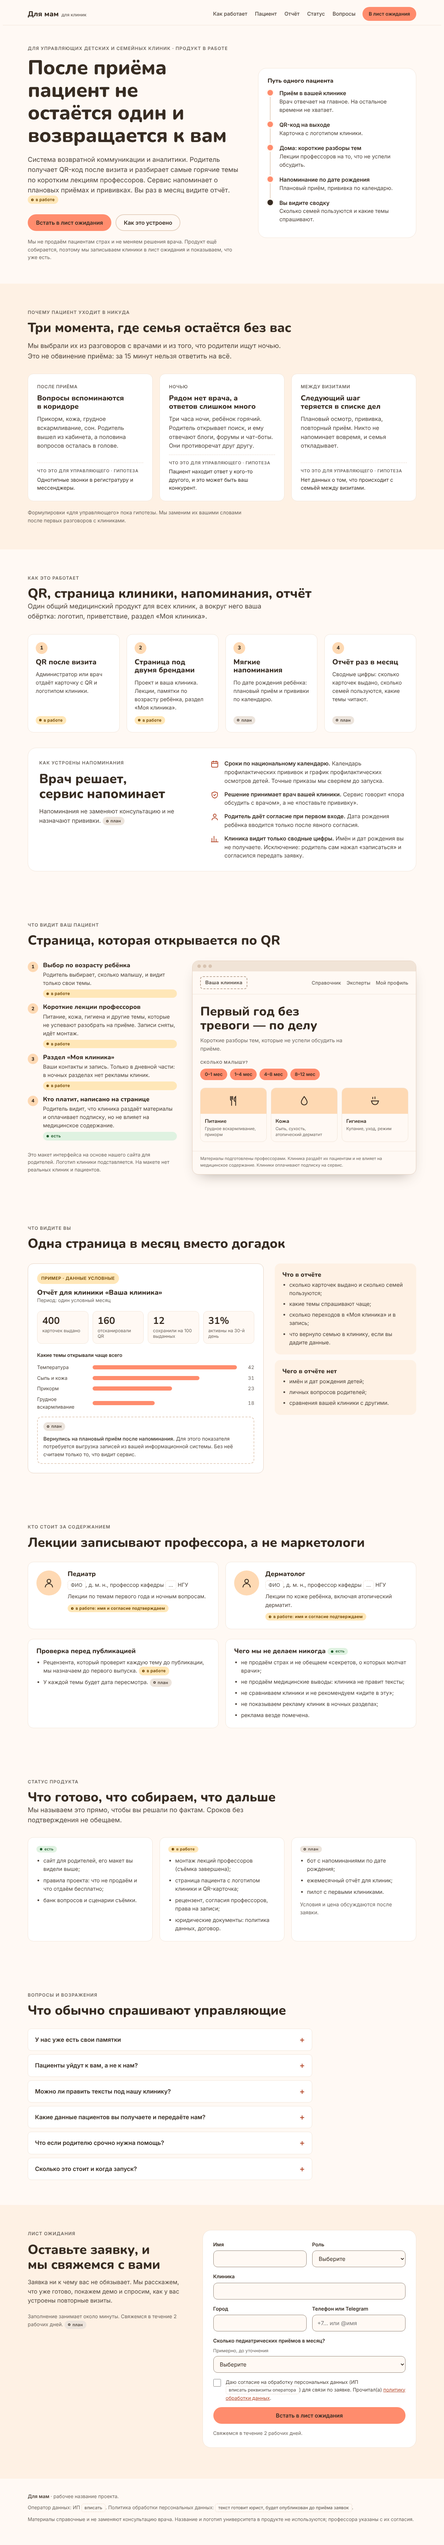
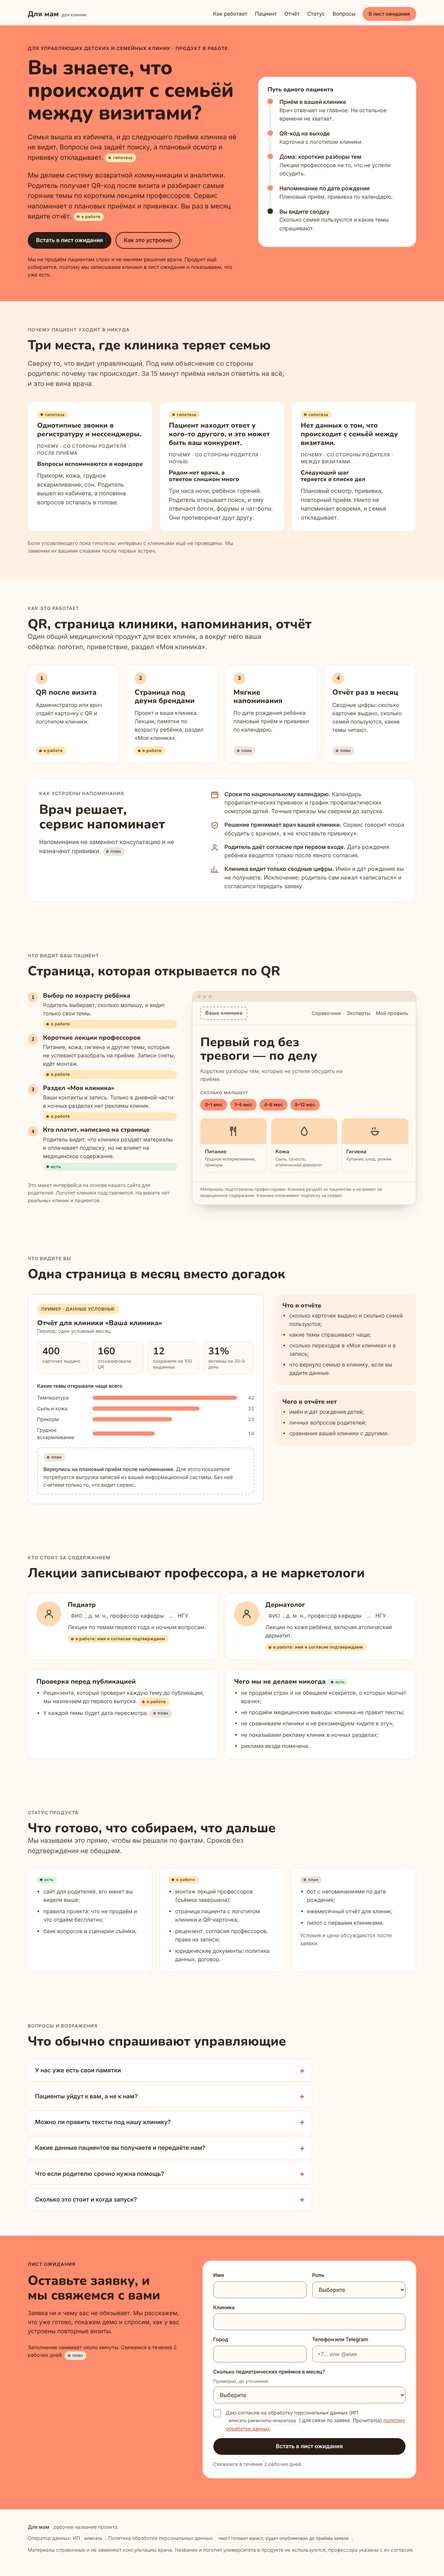
26: рассылка ЛПР (хуки A/B), сегменты с UTM, пороги до отправки; лендинг: хук управляющего, коралловые полосы
Claude-Session: https://claude.ai/code/session_015gc3isNusoQwgfyB4FSh31

diff --git a/dlya-mam/landing/index.html b/dlya-mam/landing/index.html
@@ -11,7 +11,7 @@
   --fg:#372c22; --fg-2:#4f453c; --muted:#6b645d;
   --coral:#ff8c6d; --coral-ink:#372c22; --accent-text:#b4482a; --peach:#fed9b3;
   --ok-bg:#dff2e1; --ok-fg:#1f5a2c; --wip-bg:#ffe7b8; --wip-fg:#6b4300; --plan-bg:#ece4dc; --plan-fg:#4f453c;
-  --focus:#1c6fd1; --field:#8a7a6c;
+  --focus:#1c6fd1; --field:#8a7a6c; --band:#ff8c6d; --band-ink:#2a1d14; --band-btn-fg:#fff9f4;
   /* экран пациента: рисуем как есть, в обеих темах одинаково */
   --scr-bg:#fff9f4; --scr-ink:#372c22; --scr-muted:#6b645d; --scr-coral:#ff8c6d; --scr-peach:#fed9b3; --scr-edge:#f1e4d7;
   --font-display:'Nunito','Trebuchet MS','Segoe UI',system-ui,sans-serif;
@@ -69,7 +69,11 @@ header.top{position:sticky;top:env(safe-area-inset-top,0px);z-index:40;backgroun
 .st.wip::before{background:linear-gradient(90deg,currentColor 50%,transparent 50%);box-shadow:inset 0 0 0 2px currentColor}
 
 /* hero */
-.hero{padding-top:56px;padding-bottom:64px}
+.hero{padding-top:56px;padding-bottom:64px;background:var(--band);box-shadow:0 0 0 100vmax var(--band);clip-path:inset(0 -100vmax)}
+.band,.band h1,.band h2,.band .lead,.band .eyebrow,.band .note{color:var(--band-ink)}
+.band .btn{background:var(--band-ink);color:var(--band-btn-fg)}
+.band .btn.ghost{background:transparent;color:var(--band-ink);box-shadow:inset 0 0 0 2px var(--band-ink)}
+.band .journey li::after{box-shadow:0 0 0 4px var(--surface)}
 .hero-grid{display:grid;grid-template-columns:minmax(0,1.15fr) minmax(0,.85fr);gap:48px;align-items:center}
 .hero .lead{margin-top:22px}
 .cta-row{display:flex;flex-wrap:wrap;gap:12px;margin-top:30px}
@@ -90,6 +94,9 @@ header.top{position:sticky;top:env(safe-area-inset-top,0px);z-index:40;backgroun
 .pains .wrap>.lead{margin-top:16px}
 .cards3{display:grid;grid-template-columns:repeat(3,minmax(0,1fr));gap:20px;margin-top:36px}
 .pain{background:var(--surface);border:1px solid var(--line);border-radius:var(--radius-m);padding:26px;display:flex;flex-direction:column;gap:12px}
+.pain .mgr-top{font-family:var(--font-display);font-weight:800;font-size:20px;line-height:1.25;color:var(--fg)}
+.pain .mgr-top .st{display:flex;width:max-content;margin-bottom:8px;font-family:var(--font-body)}
+.pain h3{font-size:17px}
 .pain .k{font-size:13px;font-weight:600;letter-spacing:.06em;text-transform:uppercase;color:var(--muted)}
 .pain p{color:var(--fg-2);font-size:16.5px}
 .pain .mgr{margin-top:auto;padding-top:14px;border-top:1px dashed var(--line-strong);font-size:15px;color:var(--fg)}
@@ -194,7 +201,8 @@ details .ans{padding:0 20px 18px;color:var(--fg-2);font-size:16px}
 details .ans .st{margin-left:6px}
 
 /* форма */
-.form-sec{background:var(--surface-2);box-shadow:0 0 0 100vmax var(--surface-2);clip-path:inset(0 -100vmax)}
+.form-sec{background:var(--band);box-shadow:0 0 0 100vmax var(--band);clip-path:inset(0 -100vmax)}
+.form-sec form .btn{background:var(--band-ink);color:var(--band-btn-fg)}
 .form-grid{display:grid;grid-template-columns:minmax(0,.85fr) minmax(0,1.15fr);gap:48px;align-items:start}
 form{background:var(--surface);border:1px solid var(--line);border-radius:var(--radius-l);padding:30px;display:grid;gap:16px}
 .row2{display:grid;grid-template-columns:repeat(2,minmax(0,1fr));gap:16px}
@@ -248,12 +256,13 @@ footer b{color:var(--fg-2)}
 <main id="top" class="wrap">
 
 <!-- 1. HERO -->
-<section class="hero">
+<section class="hero band">
   <div class="hero-grid">
     <div>
       <p class="eyebrow">Для управляющих детских и семейных клиник · продукт в работе</p>
-      <h1>После приёма пациент не остаётся один и возвращается к вам</h1>
-      <p class="lead" data-claim="C01">Система возвратной коммуникации и аналитики. Родитель получает QR-код после визита и разбирает самые горячие темы по коротким лекциям профессоров. Сервис напоминает о плановых приёмах и прививках. Вы раз в месяц видите отчёт. <span class="st wip">в работе</span></p>
+      <h1 data-claim="C30">Вы знаете, что происходит с семьёй между визитами?</h1>
+      <p class="lead" data-claim="C31">Семья вышла из кабинета, и до следующего приёма клиника её не видит. Вопросы она задаёт поиску, а плановый осмотр и прививку откладывает. <span class="st wip">гипотеза</span></p>
+      <p class="lead" data-claim="C01">Мы делаем систему возвратной коммуникации и аналитики. Родитель получает QR-код после визита и разбирает самые горячие темы по коротким лекциям профессоров. Сервис напоминает о плановых приёмах и прививках. Вы раз в месяц видите отчёт. <span class="st wip">в работе</span></p>
       <div class="cta-row">
         <a class="btn" href="#join">Встать в лист ожидания</a>
         <a class="btn ghost" href="#how">Как это устроено</a>
@@ -277,29 +286,29 @@ footer b{color:var(--fg-2)}
 <section class="pains" id="pains">
   <div class="wrap">
     <p class="eyebrow">Почему пациент уходит в никуда</p>
-    <h2>Три момента, где семья остаётся без вас</h2>
-    <p class="lead">Мы выбрали их из разговоров с врачами и из того, что родители ищут ночью. Это не обвинение приёма: за 15 минут нельзя ответить на всё.</p>
+    <h2>Три места, где клиника теряет семью</h2>
+    <p class="lead">Сверху то, что видит управляющий. Под ним объяснение со стороны родителя: почему так происходит. За 15 минут приёма нельзя ответить на всё, и это не вина врача.</p>
     <div class="cards3">
       <article class="pain" data-claim="C06">
-        <span class="k">После приёма</span>
+        <p class="mgr-top"><span class="st wip">гипотеза</span> Однотипные звонки в регистратуру и мессенджеры.</p>
+        <span class="k">Почему · со стороны родителя · После приёма</span>
         <h3>Вопросы вспоминаются в коридоре</h3>
         <p>Прикорм, кожа, грудное вскармливание, сон. Родитель вышел из кабинета, а половина вопросов осталась в голове.</p>
-        <div class="mgr"><span>Что это для управляющего · гипотеза</span>Однотипные звонки в регистратуру и мессенджеры.</div>
       </article>
       <article class="pain" data-claim="C07">
-        <span class="k">Ночью</span>
+        <p class="mgr-top"><span class="st wip">гипотеза</span> Пациент находит ответ у кого-то другого, и это может быть ваш конкурент.</p>
+        <span class="k">Почему · со стороны родителя · Ночью</span>
         <h3>Рядом нет врача, а ответов слишком много</h3>
         <p>Три часа ночи, ребёнок горячий. Родитель открывает поиск, и ему отвечают блоги, форумы и чат-боты. Они противоречат друг другу.</p>
-        <div class="mgr"><span>Что это для управляющего · гипотеза</span>Пациент находит ответ у кого-то другого, и это может быть ваш конкурент.</div>
       </article>
       <article class="pain" data-claim="C08">
-        <span class="k">Между визитами</span>
+        <p class="mgr-top"><span class="st wip">гипотеза</span> Нет данных о том, что происходит с семьёй между визитами.</p>
+        <span class="k">Почему · со стороны родителя · Между визитами</span>
         <h3>Следующий шаг теряется в списке дел</h3>
         <p>Плановый осмотр, прививка, повторный приём. Никто не напоминает вовремя, и семья откладывает.</p>
-        <div class="mgr"><span>Что это для управляющего · гипотеза</span>Нет данных о том, что происходит с семьёй между визитами.</div>
       </article>
     </div>
-    <p class="note">Формулировки «для управляющего» пока гипотезы. Мы заменим их вашими словами после первых разговоров с клиниками.</p>
+    <p class="note">Боли управляющего пока гипотезы: интервью с клиниками ещё не проведены. Мы заменим их вашими словами после первых встреч.</p>
   </div>
 </section>
 
@@ -472,7 +481,7 @@ footer b{color:var(--fg-2)}
 </section>
 
 <!-- 9. ФОРМА -->
-<section class="form-sec" id="join">
+<section class="form-sec band" id="join">
   <div class="wrap form-grid">
     <div class="stack">
       <p class="eyebrow">Лист ожидания</p>

diff --git a/dlya-mam/outreach/01-pisma.md b/dlya-mam/outreach/01-pisma.md
@@ -1,0 +1,56 @@
+# Письма после личной встречи — два хука для A/B
+
+Версия 1, 2026-11-13. Канал: вы лично приходите в клинику с продуктом, потом пишете. Поэтому письмо — продолжение разговора, а не холодная рассылка.
+
+**Статус боли управляющего: ГИПОТЕЗА.** Записей с обучения и звонков ЛПР нет. После первых 3 встреч замените фразы в [скобках] словами самих управляющих.
+
+Ссылка одна: `https://claude.ai/artifact/LJFt9vZ1oNhcjfnYc6aGLz` + метка сегмента (см. `02-segmenty.csv`). Пока страница приватная — откройте доступ в «Поделиться», иначе адресат её не откроет.
+
+---
+
+## Хук A — вопрос управляющему
+
+**Тема письма:** Что с семьёй между визитами?
+
+> [Имя], спасибо за встречу [день].
+>
+> Вы знаете, сколько семей с детьми первого года пришли на плановый осмотр вовремя, а сколько потерялись?
+>
+> Мы видим одну картину [гипотеза — проверяем с вами]: семья выходит из кабинета, и до следующего визита клиника её не видит. Вопросы, которые не успели задать, родитель несёт в поиск или в регистратуру. Плановый осмотр и прививку откладывает.
+>
+> Мы делаем сервис для этого промежутка: QR после приёма, короткие лекции профессоров на темы, которые не помещаются в приём, мягкие напоминания по дате рождения ребёнка и отчёт для клиники раз в месяц. Продукт в работе, мы прямо пишем, что готово, а что нет.
+>
+> Если тема вам близка, оставьте заявку в лист ожидания: [ссылка]. Свяжемся в течение 2 рабочих дней.
+>
+> [Ваше имя], [телефон]
+>
+> Если писать вам больше не нужно, ответьте «нет» — больше не побеспокоим.
+
+## Хук B — сцена родителя как доказательство
+
+**Тема письма:** Три вопроса, которые вспоминаются в коридоре
+
+> [Имя], спасибо за встречу [день].
+>
+> Мама выходит из кабинета и через час вспоминает три вопроса. Кому она их задаст: вашей клинике или поиску?
+>
+> Для управляющего это значит [гипотеза — проверяем с вами]: однотипные звонки в регистратуру, а между визитами клиника не знает, что происходит с семьёй и вернётся ли она.
+>
+> (дальше — как в варианте A, со слов «Мы делаем сервис…»)
+
+---
+
+## Вариант для Telegram (короче, оба хука)
+
+**A:**
+> [Имя], добрый день, это [имя], мы встречались [день]. Вопрос, который обещал прислать: вы знаете, что происходит с семьёй между визитами? Мы делаем сервис для этого промежутка: QR после приёма, лекции профессоров, напоминания о плановых приёмах, отчёт клинике. Продукт в работе. Лист ожидания: [ссылка]. Если неактуально — напишите, не буду беспокоить.
+
+**B:**
+> [Имя], добрый день, это [имя], мы встречались [день]. Мама выходит из кабинета и через час вспоминает три вопроса. Мы делаем так, чтобы ответ она нашла у вас, а не в поиске: QR после приёма, лекции профессоров, напоминания, отчёт клинике. Продукт в работе. Лист ожидания: [ссылка]. Если неактуально — напишите, не буду беспокоить.
+
+## Правила отправки
+
+1. Пишем только тем, с кем была встреча или кто сам дал контакт. Остальным — нет (38-ФЗ, ст. 18: реклама без согласия).
+2. Хук чередуем по списку: чётные строки — A, нечётные — B, внутри каждого сегмента.
+3. Ни одной цифры о клиниках: их у нас нет.
+4. Пороги — в `03-porogi.md`, закоммичены до первой отправки.

diff --git a/dlya-mam/outreach/03-porogi.md b/dlya-mam/outreach/03-porogi.md
@@ -1,0 +1,22 @@
+# Пороги рассылки — записаны до первой отправки
+
+Версия 1, 2026-11-13. Меняются только новым коммитом с причиной. Проценты — ДОПУЩЕНИЕ владельца/Claude, своих данных нет.
+
+Считаем отдельно по хуку (A/B) и сегменту (S1–S5). Заявка = заполненная форма или ответ «интересно, давайте созвон».
+
+| итог | правило | что делаем |
+|---|---|---|
+| **идём** | заявок ≥ 20% от отправленных (тёплая база после встречи) | масштабируем лучший хук на следующие встречи |
+| **меняем хук** | 8–19% | переписываем первую строку, боль оставляем |
+| **боль не та** | < 8% у обоих хуков | стоп рассылки; 5 звонков «что у вас реально болит с повторными визитами» |
+
+Хук A сильнее B, если у него заявок больше на 5+ п.п. при ≥ 15 отправках в каждой ветке. Меньше 15 — вывод не делаем.
+
+## До отправки (обязательно)
+- [ ] тестовая заявка дошла до владельца (см. ниже — сейчас **не выполняется**)
+- [ ] 3 знакомых ЛПР читают письмо: за 10 с называют свою проблему, порог 2 из 3
+- [ ] страница открыта по ссылке для внешних людей
+- [ ] у каждого адресата есть основание (сегменты S1–S5)
+
+## Блокер
+Форма на артефакте не принимает заявки от людей вне вашей организации claude.ai. Пока нет приёма на вашем сайте или в боте, считать заявки нельзя; ответы на письма считаем вручную в таблице.

diff --git a/dlya-mam/landing/contrast-report.md b/dlya-mam/landing/contrast-report.md
@@ -20,6 +20,9 @@
 | Статус «есть» | `#1f5a2c` | `#dff2e1` | 7.01 | 4.5 | проходит |
 | Статус «в работе» | `#6b4300` | `#ffe7b8` | 7.16 | 4.5 | проходит |
 | Статус «план» | `#4f453c` | `#ece4dc` | 7.42 | 4.5 | проходит |
+| Коралловая полоса: текст | `#2a1d14` | `#ff8c6d` | 7.18 | 4.5 | проходит |
+| Коралловая полоса: кнопка | `#fff9f4` | `#2a1d14` | 15.66 | 4.5 | проходит |
+| Коралловая полоса: кнопка к фону (не-текст) | `#2a1d14` | `#ff8c6d` | 7.18 | 3.0 | проходит |
 | Ошибка формы на карточке | `#b3261e` | `#ffffff` | 6.54 | 4.5 | проходит |
 | Номер шага: чернила на персиковом | `#372c22` | `#fed9b3` | 10.21 | 4.5 | проходит |
 | Граница поля формы к карточке (не-текст) | `#8a7a6c` | `#ffffff` | 4.13 | 3.0 | проходит |
@@ -41,6 +44,9 @@
 | Статус «есть» | `#bfe8c6` | `#1f3a27` | 9.20 | 4.5 | проходит |
 | Статус «в работе» | `#ffd98a` | `#4a3510` | 8.60 | 4.5 | проходит |
 | Статус «план» | `#d9ccbf` | `#3a312b` | 8.06 | 4.5 | проходит |
+| Коралловая полоса: текст | `#2a1d14` | `#ff8c6d` | 7.18 | 4.5 | проходит |
+| Коралловая полоса: кнопка | `#fff9f4` | `#2a1d14` | 15.66 | 4.5 | проходит |
+| Коралловая полоса: кнопка к фону (не-текст) | `#2a1d14` | `#ff8c6d` | 7.18 | 3.0 | проходит |
 | Ошибка формы на карточке | `#ff9d92` | `#2a231f` | 7.72 | 4.5 | проходит |
 | Номер шага: чернила на персиковом | `#372c22` | `#fed9b3` | 10.21 | 4.5 | проходит |
 | Граница поля формы к карточке (не-текст) | `#a8937f` | `#2a231f` | 5.26 | 3.0 | проходит |

diff --git a/dlya-mam/landing/claims-table.md b/dlya-mam/landing/claims-table.md
@@ -51,3 +51,11 @@
 2. Реквизиты ИП и ссылка на политику обработки данных.
 3. Рецензент назначен? Если да, заменить C21.
 4. Места отправки формы: сейчас заявки никуда не уходят.
+
+## Добавлено 2026-11-13 (рассылка)
+
+| ID | утверждение | статус | доказательство | источник | чем закрыть |
+|---|---|---|---|---|---|
+| C30 | Хук: «Вы знаете, что происходит с семьёй между визитами?» | — (вопрос) | — | — | — |
+| C31 | Между визитами клиника семью не видит; вопросы уходят в поиск; осмотры откладывают | в работе (гипотеза) | ДОПУЩЕНИЕ | `00-evidence-ledger.md` Д26 (пересказ), R01 (ночные запросы) | дословные записи 3–5 встреч с ЛПР |
+| C32 | Боли управляющего в блоке «Три места»: однотипные звонки, конкурент отвечает раньше, нет данных между визитами | в работе (гипотеза) | ДОПУЩЕНИЕ | `14-clinic-offer.md` раздел 2 | то же |
